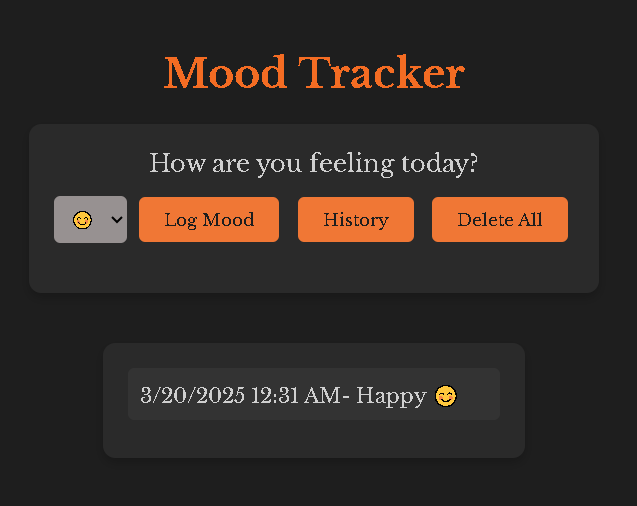
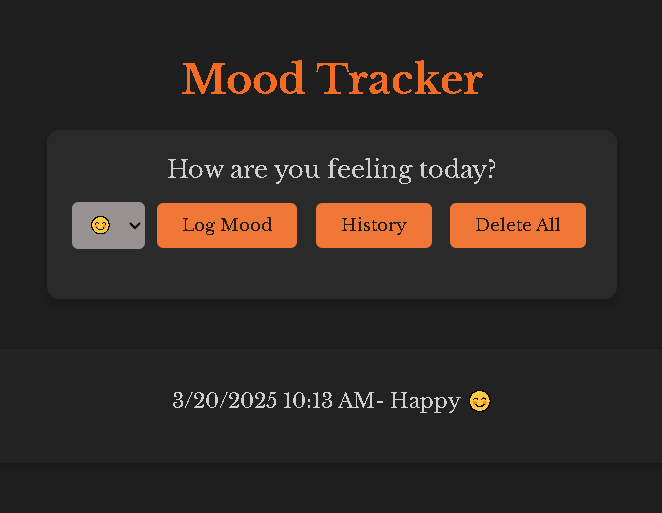
fixed responsiveness issue

diff --git a/Mood_Tracker/style.css b/Mood_Tracker/style.css
@@ -67,36 +67,82 @@ button:hover{
 }
 
 #moodLog{
-    width:22%;
-    background-color: #2a2a2a;
+    width:100%;
+    background-color: #232222;
     padding: 20px;
     border-radius: 10px;
     box-shadow: 0 4px 8px rgba(0,0,0,0.2);
-    max-height: 300px;
+    max-height: 400px;
     overflow-y: auto;
     margin-top: 20px;
+    text-align: center;
+    
 }
 
 #moodLog p{
     width: 100%;
-    background-color: #333;
-    padding: 10px;
-    border-radius: 5px;
     margin-bottom: 10px;
+    font-size: 16px;
 }
 
-@media (max-width:600px){
+@media (max-width:740px){
     h1{
         font-weight: 300;
+        font-size: 28px;
     }
     
+    label{
+        font-size: 16px;
+    }
     button{
-        padding: 6px 12px;
-        font-size: 0.9rem;
+        padding: 4px 10px;
+        font-size: 0.8rem;
     }
 
-    #moodLog{
-        font-size: 0.9rem;
+    #mood{
+        padding: 4px 10px;
+
+    }
+    
+    #moodLog p{
+        font-size: 13px;
     }
 }
+   
+/* @media(max-width:620px){
+    
+    #moodLog p{
+        font-size: 11px;
+    }
 
+} */
+
+@media(max-width:480px){
+    h1{
+        font-size: 28px;
+    }
+
+    label{ 
+        font-size: 16px;
+
+    }
+
+    button{
+        padding: 5px 8px;
+        font-size: 13px;
+    }
+    #mood{
+        padding: 8px 8px;
+    }
+
+    #mood-container{
+        margin: 10%;
+    }
+
+    #mood-container{
+        display: flex;
+        flex-direction: column;
+        justify-content: center;
+        align-items: center;
+    }
+}
